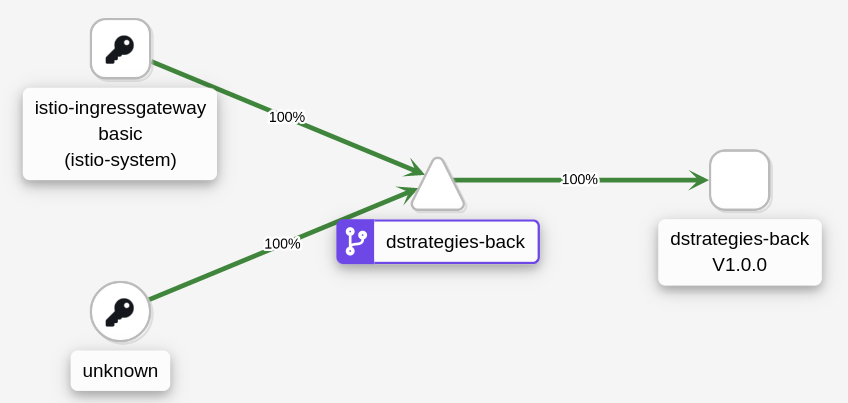
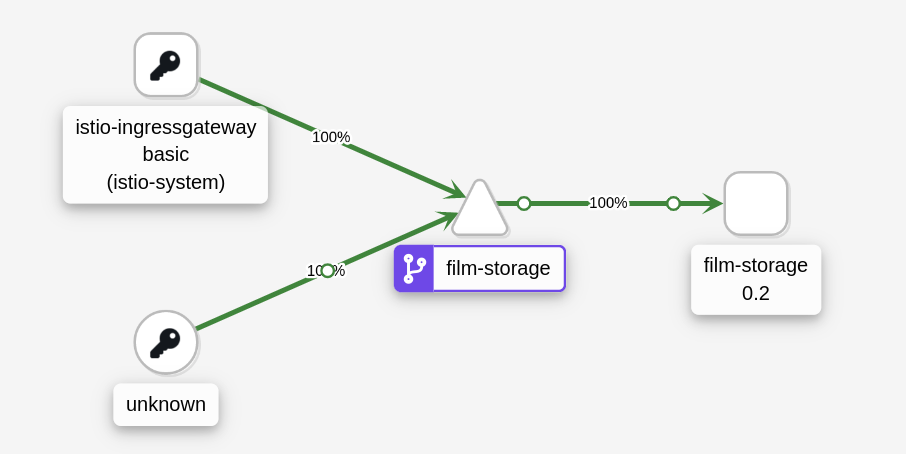
[CI] Publish Documentation for cfddccb5915a7a18a9a3951cb502c0fcbbecae85 - cfddccb5915a7a18a9a3951cb502c0fcbbecae85 🚀

diff --git a/workshop-argo-rollouts-doc/05-canary-deployment-service-mesh.html b/workshop-argo-rollouts-doc/05-canary-deployment-service-mesh.html
@@ -402,7 +402,7 @@ git push</code></pre>
 </div>
 </div>
 <div class="sect1">
-<h2 id="05-deploy"><a class="anchor" href="#05-deploy"></a>Deploy Dstrategies Application</h2>
+<h2 id="05-deploy"><a class="anchor" href="#05-deploy"></a>Deploy film-storage Application</h2>
 <div class="sectionbody">
 <div class="paragraph">
 <p>We are going to create the application <strong>film-storage-service-mesh-canary</strong>, which we will use to test canary deployment with Service Mesh. Because we will make changes in the application&#8217;s GitHub repository, we have to use the repository that you have just forked. Please edit the following YAML and set your own GitHub repository in the <strong>repoURL</strong>.</p>
@@ -412,7 +412,7 @@ git push</code></pre>
 <pre class="highlightjs highlight"><code class="language-input hljs" data-lang="input">apiVersion: argoproj.io/v1alpha1
 kind: Application
 metadata:
-  name: dstrategies-canary-service-mesh
+  name: film-storage-service-mesh-canary
   namespace: %USER%-gitops-argocd
 spec:
   destination:
@@ -456,7 +456,7 @@ spec:
 </div>
 <div class="imageblock">
 <div class="content">
-<img src="_images/canary-service-mesh-rollout-step-0.png" alt="Dstrategies initial status">
+<img src="_images/canary-service-mesh-rollout-step-0.png" alt="film-storage initial status">
 </div>
 </div>
 <div class="paragraph">
@@ -468,108 +468,67 @@ spec:
 <p>Only one route and service that maps to the Service Mesh Destination Rule.</p>
 </li>
 <li>
-<p>A Destination Rule exposing the pods of the active Replica Sets.</p>
-</li>
-<li>
-<p>One Replica Set for each version of the application.</p>
+<p>A Destination Rule exposing the pods.</p>
 </li>
 </ul>
-</div>
-<div class="paragraph">
-<p>In Blue/Green deployment we always have an offline service to test the version that is not in production. In the case of canary deployment, we do not need it because progressively we will have the new version in production.</p>
 </div>
 <div class="paragraph">
 <p>We can also see the rollout&#8217;s status.</p>
 </div>
 <div class="listingblock console-input">
 <div class="content">
-<pre class="highlightjs highlight"><code class="language-input hljs" data-lang="input">oc argo rollouts get rollout dstrategies-back --watch -n %USER%-canary-service-mesh</code></pre>
+<pre class="highlightjs highlight"><code class="language-input hljs" data-lang="input">oc argo rollouts get rollout film-storage --watch -n %USER%-canary-service-mesh</code></pre>
 </div>
 </div>
 <div class="listingblock console-output">
 <div class="content">
-<pre class="highlightjs highlight"><code class="language-input hljs" data-lang="input">NAME                                  KIND        STATUS     AGE  INFO
-⟳ dstrategies-back                            Rollout     ✔ Healthy  38s
+<pre class="highlightjs highlight"><code class="language-input hljs" data-lang="input">NAME                                      KIND        STATUS     AGE  INFO
+⟳ film-storage                            Rollout     ✔ Healthy  21m
 └──# revision:1
-   └──⧉ dstrategies-back-67fc9fb79b           ReplicaSet  ✔ Healthy  38s  stable
-      ├──□ dstrategies-back-67fc9fb79b-4ql4z  Pod         ✔ Running  38s  ready:2/2
-      ├──□ dstrategies-back-67fc9fb79b-7c4jw  Pod         ✔ Running  38s  ready:2/2
-      ├──□ dstrategies-back-67fc9fb79b-lz86j  Pod         ✔ Running  38s  ready:2/2
-      └──□ dstrategies-back-67fc9fb79b-xlkhp  Pod         ✔ Running  38s  ready:2/2</code></pre>
+   └──⧉ film-storage-7587cfcc54           ReplicaSet  ✔ Healthy  21m  stable
+      ├──□ film-storage-7587cfcc54-7xdgl  Pod         ✔ Running  21m  ready:2/2
+      ├──□ film-storage-7587cfcc54-9vczq  Pod         ✔ Running  21m  ready:2/2
+      ├──□ film-storage-7587cfcc54-c8fgb  Pod         ✔ Running  21m  ready:2/2
+      ├──□ film-storage-7587cfcc54-f6m27  Pod         ✔ Running  21m  ready:2/2
+      └──□ film-storage-7587cfcc54-lkrgt  Pod         ✔ Running  21m  ready:2/2</code></pre>
 </div>
 </div>
 <div class="paragraph">
-<p>We have defined an active service <code>dstrategies-back</code>. Final users will always use <code>dstrategies-back`</code>. When a new version is deployed, <strong>Argo Rollouts</strong> creates a new revision (ReplicaSet). The number of replicas in the new release increases based on the information in the steps, and the number of replicas in the old release decreases by the same number. But in this case, the amount of traffic that is sent to each version will be managed by the VirtualService.</p>
+<p>We have defined an active service <code>film-storage</code>. When a new version is deployed, <strong>Argo Rollouts</strong> creates a new revision (ReplicaSet). The number of replicas in the new release increases based on the information in the steps, and the number of replicas in the old release decreases by the same number. But in this case, the amount of traffic that is sent to each version will be managed by the VirtualService and DestinationRule.</p>
 </div>
 </div>
 </div>
 <div class="sect1">
-<h2 id="05-test"><a class="anchor" href="#05-test"></a>Test Dstrategies application</h2>
+<h2 id="05-test"><a class="anchor" href="#05-test"></a>Test film-storage application</h2>
 <div class="sectionbody">
 <div class="paragraph">
-<p>We have deployed the <strong>dstrategies</strong> with ArgoCD. We can test that it is up and running.</p>
+<p>We have deployed the <strong>film-storage</strong> with ArgoCD. We can test that it is up and running.</p>
 </div>
 <div class="paragraph">
-<p>Visit the back route via your web browser <a href="https://dstrategies-back-%USER%-canary-service-mesh-istio-system.apps.%CLUSTER%/dstrategies-back">URL</a></p>
+<p>Visit the back route via your web browser <a href="https://film-storage-%USER%-canary-service-mesh-istio-system.apps.%CLUSTER%/api/v1/info">URL</a></p>
 </div>
-<div class="admonitionblock important">
-<table>
-<tr>
-<td class="icon">
-<i class="fa icon-important" title="Important"></i>
-</td>
-<td class="content">
-It is required to accept <strong>self-signed certificates</strong> provided by Openshift
-</td>
-</tr>
-</table>
+<div class="paragraph">
+<p>Another possibility is to set the terminal making requests to the service:</p>
 </div>
-<div class="imageblock">
+<div class="listingblock console-input">
 <div class="content">
-<img src="_images/certs_warning.png" alt="certs warning" width="50%">
+<pre class="highlightjs highlight"><code class="language-input hljs" data-lang="input">watch curl -s <a href="https://film-storage-%USER%-canary-service-mesh-istio-system.apps.%CLUSTER%/api/v1/info" class="bare">https://film-storage-%USER%-canary-service-mesh-istio-system.apps.%CLUSTER%/api/v1/info</a>
+{"app":{"name":"film-storage","version":"0.2","buildTime":"2023/01/10 15:17:57"}}</code></pre>
 </div>
-<div class="title">Figure 1. Openshift Self-signed Certificates Warning</div>
-</div>
-<div class="paragraph">
-<p>Then you can use the frontend <a href="https://dstrategies-frontend-%USER%-canary-service-mesh-istio-system.apps.%CLUSTER%/">URL</a></p>
-</div>
-<div class="paragraph">
-<p>Visit the frontend route via your web browser, push - JUMP - button and ensure the following message is displaying on your screen:</p>
-</div>
-<div class="imageblock">
-<div class="content">
-<img src="_images/frontend-canary-service-mesh.png" alt="Frontend Interface">
-</div>
-<div class="title">Figure 2. Frontend Interface</div>
-</div>
-<div class="paragraph">
-<p>Notice that we have added metadata information in each microservice response to see better the <strong>version</strong> of each application. This will help us to see the changes while we do the canary deployment.  We can see that the current version is <strong>V1.0.0</strong>.</p>
 </div>
 </div>
 </div>
 <div class="sect1">
-<h2 id="05-canary"><a class="anchor" href="#05-canary"></a>Dstrategies-back canary deployment</h2>
+<h2 id="05-canary"><a class="anchor" href="#05-canary"></a>film-storage canary deployment</h2>
 <div class="sectionbody">
 <div class="paragraph">
-<p>To test canary deployment we are going to do changes in the backend application <code>dstrategies-back</code>.</p>
+<p>To test canary deployment we are going to do changes in the application.</p>
 </div>
 <div class="paragraph">
-<p>We will deploy a new version <strong>V2.0.0</strong>.</p>
+<p>We will deploy a new version <strong>0.3</strong>.</p>
 </div>
 <div class="paragraph">
-<p>Before applying these changes, it is important to monitor the current version via the frontend. To track all canary processes, it is required to prepare the frontend to generate multiple requests. <strong>If there aren&#8217;t multiple requests the back application will not have traffic and the rollout will fail</strong>. Remember that we are using the metrics to decide if we go on with the rollout or not. Without traffic, we don&#8217;t have metrics.</p>
-</div>
-<div class="paragraph">
-<p>Visit the frontend route via your web browser, edit the number of <strong>Calls Retries</strong> to 10000 and push - JUMP - button and ensure the following message is displaying on your screen:</p>
-</div>
-<div class="imageblock">
-<div class="content">
-<img src="_images/frontend-canary-service-mesh-retries.png" alt="Frontend Interface">
-</div>
-<div class="title">Figure 3. Frontend Interface</div>
-</div>
-<div class="paragraph">
-<p><strong>Argo Rollouts</strong> will automatically deploy a new <code>dstrategies-back</code> revision. Based on the steps that you have defined, we will see how the traffic will go to the different versions.</p>
+<p><strong>Argo Rollouts</strong> will automatically deploy a new <code>film-storage</code> revision. Based on the steps that you have defined, we will see how the traffic will go to the different versions.</p>
 </div>
 <div class="paragraph">
 <p>We also encourage you to use <a href="https://kiali-istio-system.apps.%CLUSTER%/">Kiali</a> graph to see the percentages of the traffic that goes to each version. Log in with your Openshift lab-user and select your namespace.</p>
@@ -578,7 +537,7 @@ It is required to accept <strong>self-signed certificates</strong> provided by O
 <div class="content">
 <img src="_images/kiali-namespace.png" alt="&quot;Kiali namespace">
 </div>
-<div class="title">Figure 4. Kiali namespace</div>
+<div class="title">Figure 1. Kiali namespace</div>
 </div>
 <div class="paragraph">
 <p>Then go to <em>Display</em>, <em>Show Edge Labels</em> and select <em>Requests Percentage</em>.</p>
@@ -587,23 +546,23 @@ It is required to accept <strong>self-signed certificates</strong> provided by O
 <div class="content">
 <img src="_images/kiali-labels.png" alt="&quot;Kiali labels">
 </div>
-<div class="title">Figure 5. Kiali labels</div>
+<div class="title">Figure 2. Kiali labels</div>
 </div>
 <div class="paragraph">
-<p>We will see the dstrategies graph with 100% of the traffic going to V1.0.0</p>
+<p>We will see the graph with 100% of the traffic going to 0.2 version.</p>
 </div>
 <div class="imageblock">
 <div class="content">
 <img src="_images/kiali-graph-v1.png" alt="&quot;Kiali graph V1">
 </div>
-<div class="title">Figure 6. Kiali graph V1</div>
+<div class="title">Figure 3. Kiali graph V1</div>
 </div>
 <div class="paragraph">
-<p>We have to edit the files <strong>./rhsm-canary/edit.values.yaml</strong> to modify the value <strong>v1.0.0</strong> to <strong>V2.0.0</strong>:</p>
+<p>We have to edit the files <strong>./rhsm-canary/edit.values.yaml</strong> to modify the value <strong>0.2</strong> to <strong>0.3</strong>:</p>
 </div>
 <div class="listingblock console-input">
 <div class="content">
-<pre class="highlightjs highlight"><code class="language-input hljs" data-lang="input">    version: V2.0.0' &lt;---</code></pre>
+<pre class="highlightjs highlight"><code class="language-input hljs" data-lang="input">    version: 0.2 &lt;---</code></pre>
 </div>
 </div>
 <div class="paragraph console-input">
@@ -612,7 +571,7 @@ It is required to accept <strong>self-signed certificates</strong> provided by O
 <div class="listingblock console-input">
 <div class="content">
 <pre class="highlightjs highlight"><code class="language-input hljs" data-lang="input">git add .
-git commit -m "Change dstrategies-back version to V2.0.0"
+git commit -m "Change version to 0.3"
 git push</code></pre>
 </div>
 </div>
@@ -624,154 +583,47 @@ git push</code></pre>
 </div>
 <div class="imageblock">
 <div class="content">
-<img src="_images/canary-service-mesh-rollout-step-1.png" alt="&quot;Dstrategies Step 1">
+<img src="_images/canary-service-mesh-rollout-step-1.png" alt="&quot;film-storage Step 1">
 </div>
 </div>
 <div class="listingblock console-input">
 <div class="content">
-<pre class="highlightjs highlight"><code class="language-input hljs" data-lang="input">oc argo rollouts get rollout dstrategies-back --watch -n %USER%-canary-service-mesh</code></pre>
+<pre class="highlightjs highlight"><code class="language-input hljs" data-lang="input">oc argo rollouts get rollout film-storage --watch -n %USER%-canary-service-mesh</code></pre>
 </div>
 </div>
 <div class="listingblock console-output">
 <div class="content">
-<pre class="highlightjs highlight"><code class="language-input hljs" data-lang="input">NAME                                  KIND        STATUS     AGE    INFO
-⟳ dstrategies-back                            Rollout     ॥ Paused   3m13s
+<pre class="highlightjs highlight"><code class="language-input hljs" data-lang="input">NAME                                      KIND         STATUS        AGE  INFO
+⟳ film-storage                            Rollout      ॥ Paused      67m
 ├──# revision:2
-│  └──⧉ dstrategies-back-9dc6f576f            ReplicaSet  ✔ Healthy  8s     canary
-│     └──□ dstrategies-back-9dc6f576f-fwq8m   Pod         ✔ Running  8s     ready:2/2
+│  ├──⧉ film-storage-68c88f96cd           ReplicaSet   ✔ Healthy     19s  canary
+│  │  └──□ film-storage-68c88f96cd-sxvxz  Pod          ✔ Running     18s  ready:2/2
+│  ├──α film-storage-68c88f96cd-2.1       AnalysisRun  ✔ Successful  18s  ✔ 1
+│  └──α film-storage-68c88f96cd-2         AnalysisRun  ✔ Successful  18s  ✔ 1
 └──# revision:1
-   └──⧉ dstrategies-back-67fc9fb79b           ReplicaSet  ✔ Healthy  3m13s  stable
-      ├──□ dstrategies-back-67fc9fb79b-4ql4z  Pod         ✔ Running  3m13s  ready:2/2
-      ├──□ dstrategies-back-67fc9fb79b-lz86j  Pod         ✔ Running  3m13s  ready:2/2
-      └──□ dstrategies-back-67fc9fb79b-xlkhp  Pod         ✔ Running  3m13s  ready:2/2</code></pre>
+   └──⧉ film-storage-7587cfcc54           ReplicaSet   ✔ Healthy     67m  stable
+      ├──□ film-storage-7587cfcc54-7xdgl  Pod          ✔ Running     67m  ready:2/2
+      ├──□ film-storage-7587cfcc54-9vczq  Pod          ✔ Running     67m  ready:2/2
+      ├──□ film-storage-7587cfcc54-c8fgb  Pod          ✔ Running     67m  ready:2/2
+      ├──□ film-storage-7587cfcc54-f6m27  Pod          ✔ Running     67m  ready:2/2
+      └──□ film-storage-7587cfcc54-lkrgt  Pod          ✔ Running     67m  ready:2/2</code></pre>
 </div>
-</div>
-<div class="paragraph">
-<p>On the front web page, you will see how the versions change.</p>
-</div>
-<div class="paragraph">
-<p>New revision:</p>
-</div>
-<div class="imageblock">
-<div class="content">
-<img src="_images/frontend-canary-service-mesh-v2.png" alt="Frontend Interface">
-</div>
-<div class="title">Figure 7. Frontend Interface</div>
-</div>
-<div class="paragraph">
-<p>Old revision:</p>
-</div>
-<div class="imageblock">
-<div class="content">
-<img src="_images/frontend-canary-service-mesh.png" alt="Frontend Interface">
-</div>
-<div class="title">Figure 8. Frontend Interface</div>
-</div>
-<div class="paragraph">
-<p>In Kiali, you can also see how the traffic going to each version changes.</p>
-</div>
-<div class="imageblock">
-<div class="content">
-<img src="_images/kiali-graph-v2.png" alt="&quot;Kiali graph V2">
-</div>
-<div class="title">Figure 9. Kiali graph V2</div>
-</div>
-<div class="sect2">
-<h3 id="_deploy_dstrategies_back_new_version_rollout_finished"><a class="anchor" href="#_deploy_dstrategies_back_new_version_rollout_finished"></a>Deploy dstrategies-back new version rollout finished</h3>
-<div class="paragraph">
-<p>When all the rollout steps have finished. <strong>We have the new version V2.0.0 for all the users!!!</strong></p>
-</div>
-<div class="imageblock">
-<div class="content">
-<img src="_images/canary-service-mesh-rollout-step-2.png" alt="Dstrategies Step Rollback">
-</div>
-</div>
-<div class="paragraph">
-<p>New revision:</p>
-</div>
-<div class="imageblock">
-<div class="content">
-<img src="_images/frontend-canary-service-mesh-v2.png" alt="Frontend Interface">
-</div>
-<div class="title">Figure 10. Frontend Interface</div>
-</div>
-</div>
-<div class="sect2">
-<h3 id="05-rollback"><a class="anchor" href="#05-rollback"></a>Rollback</h3>
-<div class="paragraph">
-<p>Imagine that something goes wrong, we know that this never happens but just in case. We can do a very <strong>quick rollback</strong> just by undoing the change.</p>
-</div>
-<div class="paragraph">
-<p><strong>Argo Rollouts</strong> has an <a href="https://argoproj.github.io/argo-rollouts/generated/kubectl-argo-rollouts/kubectl-argo-rollouts_undo/">undo</a> command to do the rollback. In our opinion, we don&#8217;t like this procedure because it is not aligned with GitOps. The changes that <strong>Argo Rollouts</strong> does do not come from git, so git is <code>OutOfSync</code> with what we have in Openshift.
-In our case the commit that we have done not only changes the ReplicaSet but also the ConfigMap. The <strong>undo</strong> command only changes the ReplicaSet, so it does not work for us.</p>
-</div>
-<div class="paragraph">
-<p>We recommend making changes in git rather than in Argo Rollouts. Therefore, we will revert the last commit:</p>
-</div>
-<div class="listingblock console-input">
-<div class="content">
-<pre class="highlightjs highlight"><code class="language-input hljs" data-lang="input">git revert HEAD --no-edit</code></pre>
-</div>
-</div>
-<div class="paragraph">
-<p>If we just revert the changes in git we will go back to the previous version. But <strong>Argo Rollouts</strong> will take this revert as a new release so it will do it throw the steps that we have configured. We want a <strong>quick rollback</strong> we don&#8217;t want a step-by-step revert. To achieve the <strong>quick rollback</strong> we will configure <strong>Argo Rollouts</strong> without steps for the rollback.</p>
-</div>
-<div class="paragraph">
-<p>In the file <strong>./rhsm-canary/templates/dstrategies-back-rollout.yaml</strong>  under the <strong>steps</strong>, delete all the steps and only set one step <strong>- setWeight: 100</strong>:</p>
 </div>
 <div class="listingblock">
 <div class="content">
-<pre class="highlightjs highlight"><code class="language-yaml hljs" data-lang="yaml">  strategy:
-    canary:
-      trafficRouting:
-        istio:
-          virtualService:
-            routes:
-            - primary
-            name: {{ include "service.name" . }}
-          destinationRule:
-            name: {{ include "service.name" . }}
-            canarySubsetName: canary
-            stableSubsetName: stable
-      steps:
-        - setWeight: 100</code></pre>
-</div>
-</div>
-<div class="paragraph">
-<p>Execute those commands to push the changes:</p>
-</div>
-<div class="listingblock console-input">
-<div class="content">
-<pre class="highlightjs highlight"><code class="language-input hljs" data-lang="input">git add .
-git commit -m "delete steps for rollback"
-git push</code></pre>
-</div>
-</div>
-<div class="paragraph">
-<p><strong>ArgoCD</strong> will get the changes and apply them. <strong>Argo Rollouts</strong> will create a new revision with the previous version.</p>
-</div>
-<div class="paragraph">
-<p>The rollback is done!</p>
-</div>
-<div class="imageblock">
-<div class="content">
-<img src="_images/canary-service-mesh-rollout-step-rollback.png" alt="Dstrategies Step Rollback">
-</div>
-</div>
-<div class="paragraph">
-<p>To test the  service, you can use the frontend <a href="https://dstrategies-frontend-%USER%-canary-service-mesh-istio-system.apps.%CLUSTER%/">URL</a></p>
-</div>
-<div class="paragraph">
-<p>Visit the frontend route via your web browser, push - JUMP - button and ensure the following message is displaying on your screen:</p>
-</div>
-<div class="imageblock">
-<div class="content">
-<img src="_images/frontend-canary-service-mesh.png" alt="Frontend Interface">
-</div>
-<div class="title">Figure 11. Frontend Interface</div>
-</div>
-<div class="paragraph">
-<p>To get the application ready for a new release we should configure again the  <strong>Argo Rollouts</strong> with the steps.</p>
+<pre>In Kiali, you can also see how the traffic going to each version changes.
+
+.Kiali graph V2
+image::kiali-graph-v2.png["Kiali graph V2"]
+
+Another important point is how ArgoCD change the percentage of traffic automatically in the virtual service instance:
+
+.ArgoCD
+image::kiali-graph-v3.png["ArgoCD Vritual Service"]
+
+### Deploy film-storage new version rollout finished
+
+When all the rollout steps have finished. **We have the new version 0.3 for all the users!!!**</pre>
 </div>
 </div>
 </div>
